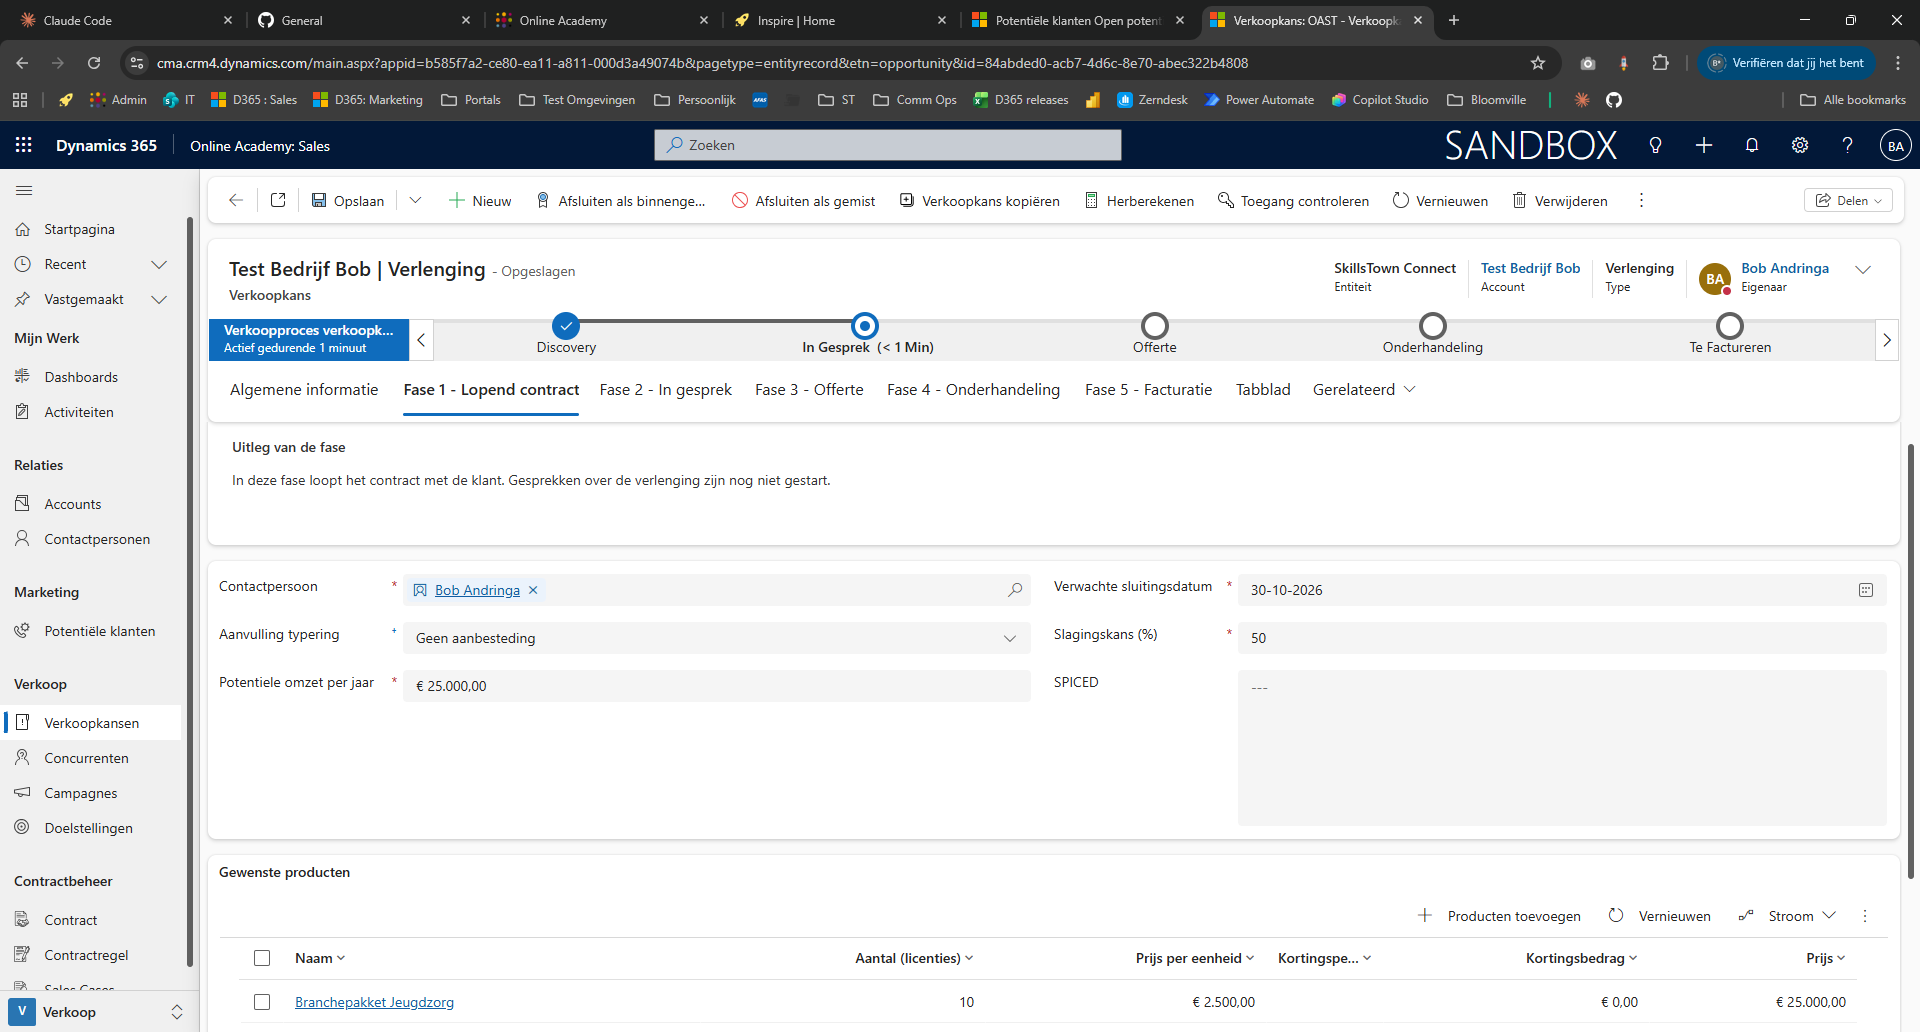
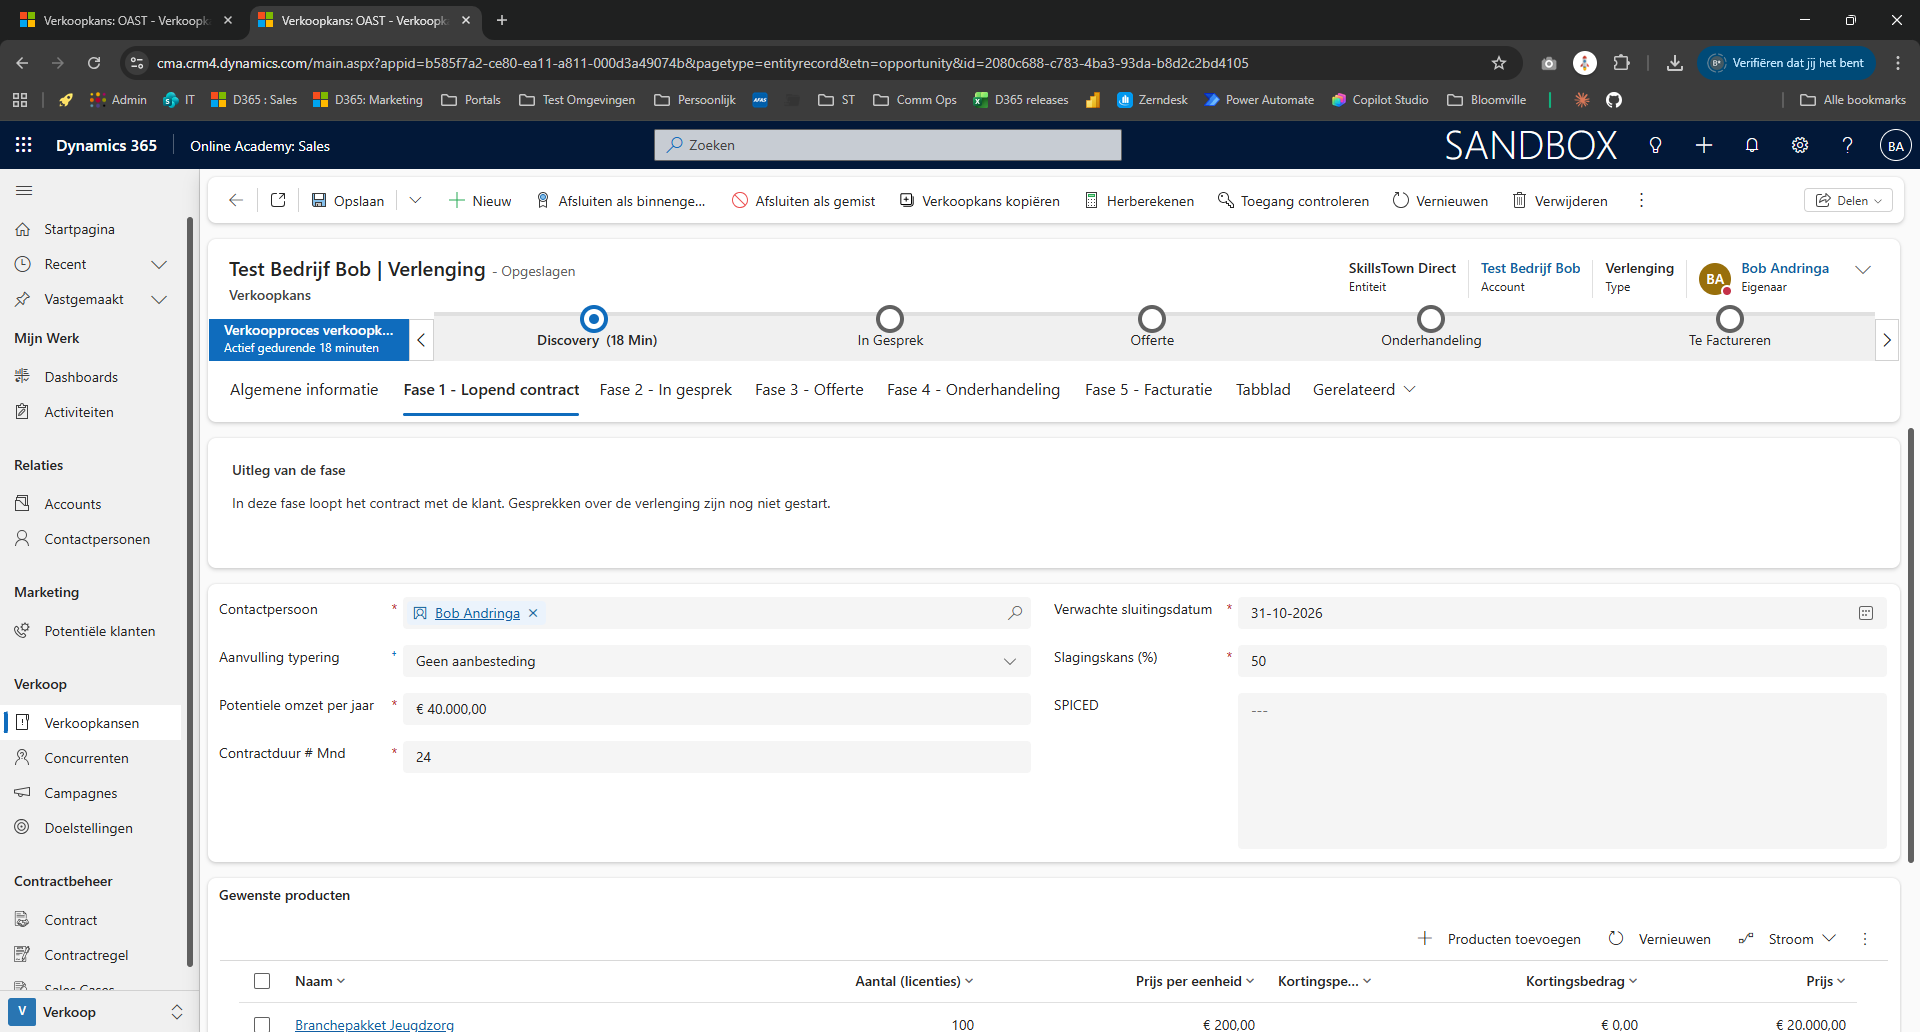
Add Bron row and new Verlenging Fase 1 screenshots
- Copy the Bron row from the old screenshot into Algemene informatie
  (Nieuwe klant) until the test environment shows it
- Verlenging Fase 1 gets new screenshots with Contractduur # Mnd, split
  into two screens like Nieuwe klant
- Markers on the product screens run top to bottom

Claude-Session: https://claude.ai/code/session_01ReoF9wBvZ5fZsmBWKEijTV

diff --git a/site/index.html b/site/index.html
@@ -199,7 +199,7 @@ const SERIES = {
       "title": "Nieuw veld Toelichting Broncampagne",
       "box": [
        8,
-       426,
+       474,
        562,
        36
       ],
@@ -211,7 +211,7 @@ const SERIES = {
       "title": "Aantal werknemers staat hier",
       "box": [
        8,
-       522,
+       570,
        562,
        36
       ],
@@ -223,7 +223,7 @@ const SERIES = {
       "title": "Onderwerp wordt automatisch gevuld",
       "box": [
        8,
-       570,
+       618,
        562,
        36
       ],
@@ -235,7 +235,7 @@ const SERIES = {
       "title": "Verwachte start datum contract",
       "box": [
        8,
-       640,
+       688,
        562,
        52
       ],
@@ -316,18 +316,6 @@ const SERIES = {
     "neu": "img/nieuw/nk-04-fase-1-deel-2.png",
     "changes": [
      {
-      "title": "Sectie Gewenste producten",
-      "box": [
-       8,
-       490,
-       1692,
-       340
-      ],
-      "wat": "Onderaan Fase 1 zie je de gekozen producten met aantal, prijs, korting en totaalprijs.",
-      "waarom": "De producten zijn de basis voor de definitieve kosten in Fase 4.",
-      "jij": "Houd de lijst actueel als de wensen van de klant veranderen."
-     },
-     {
       "title": "Potentiële omzet per jaar blijft handmatig",
       "box": [
        8,
@@ -338,6 +326,18 @@ const SERIES = {
       "wat": "Dit veld wordt niet uit de producten berekend.",
       "waarom": "Dit zal nog even een handmatig veld blijven.",
       "jij": "Vul de potentiële omzet per jaar zelf in, zoals je gewend was."
+     },
+     {
+      "title": "Sectie Gewenste producten",
+      "box": [
+       8,
+       490,
+       1692,
+       340
+      ],
+      "wat": "Onderaan Fase 1 zie je de gekozen producten met aantal, prijs, korting en totaalprijs.",
+      "waarom": "De producten zijn de basis voor de definitieve kosten in Fase 4.",
+      "jij": "Houd de lijst actueel als de wensen van de klant veranderen."
      }
     ]
    },
@@ -669,19 +669,51 @@ const SERIES = {
       "title": "Slagingskans in Fase 1",
       "box": [
        846,
-       455,
+       474,
        844,
-       36
+       40
       ],
       "wat": "Slagingskans (%) staat nu in Fase 1 en is verplicht. Eerder stond het in Fase 2.",
       "waarom": "Zo staat elke verkoopkans vanaf het begin met een kans in de pipeline. Dit getal is belangrijk voor onze forecasting.",
       "jij": "Schat de slagingskans al in de eerste fase in. Je moet dus eerder met een waarde komen."
      },
      {
+      "title": "Contractduur # Mnd is verplicht",
+      "box": [
+       8,
+       570,
+       824,
+       40
+      ],
+      "wat": "In Fase 1 vul je nu al de contractduur in maanden in. Dit veld is verplicht.",
+      "waarom": "",
+      "jij": "Geef al in Fase 1 aan hoe lang het contract naar verwachting loopt."
+     },
+     {
+      "title": "Gewenste oplossing is weg",
+      "box": [
+       8,
+       712,
+       1692,
+       44
+      ],
+      "wat": "De velden Gewenste oplossing en Gewenste oplossing overig zijn verdwenen. Daarvoor in de plaats komen producten.",
+      "waarom": "De producten zijn de basis voor de definitieve kosten in Fase 4. Die worden daardoor automatisch berekend.",
+      "jij": "Je kunt nu zelf aangeven om welke producten het gaat en hoeveel licenties."
+     }
+    ]
+   },
+   {
+    "title": "Fase 1 – Gewenste producten",
+    "sub": "Onderste deel van het tabblad, na het toevoegen van producten.",
+    "old": "img/oud/vl-02-fase-1.png",
+    "neu": "img/nieuw/vl-01-fase-1-deel-2.png",
+    "changes": [
+     {
       "title": "Potentiële omzet per jaar blijft handmatig",
       "box": [
        8,
-       500,
+       300,
        824,
        40
       ],
@@ -690,21 +722,14 @@ const SERIES = {
       "jij": "Vul de potentiële omzet per jaar zelf in, zoals je gewend was."
      },
      {
-      "title": "Contractduur # Mnd is verplicht",
-      "box": null,
-      "wat": "In Fase 1 vul je nu al de contractduur in maanden in. Dit veld is verplicht.",
-      "waarom": "",
-      "jij": "Geef al in Fase 1 aan hoe lang het contract naar verwachting loopt."
-     },
-     {
       "title": "Sectie Gewenste producten",
       "box": [
        8,
-       688,
+       488,
        1692,
-       172
+       342
       ],
-      "wat": "De velden Gewenste oplossing en Gewenste oplossing overig zijn verdwenen. Onderaan Fase 1 zie je nu de gekozen producten met aantal, prijs, korting en totaalprijs.",
+      "wat": "Onderaan Fase 1 zie je de gekozen producten met aantal, prijs, korting en totaalprijs.",
       "waarom": "De producten zijn de basis voor de definitieve kosten in Fase 4.",
       "jij": "Houd de lijst actueel als de wensen van de klant veranderen."
      }

diff --git a/tools/prepare_images.py b/tools/prepare_images.py
@@ -6,6 +6,8 @@ and writes cropped images (form area only, 1707 x 860) to site/img/.
 Edits on the new screenshots:
   - tab "Tabblad" is renamed to "Bestanden" (glyphs copied from an old screenshot)
   - the "Prognosecategorie" row is removed from Algemene informatie (test environment only)
+  - the "Bron" row, not yet in the test environment, is copied from the old screenshot into
+    Algemene informatie (Nieuwe klant), above "Toelichting Broncampagne"
 
 Run from the repository root:  python3 tools/prepare_images.py
 """
@@ -114,6 +116,16 @@ def remove_rows(img, y0, y1, x0=WIN_X, x1=WIN_X + 586):
     return img
 
 
+def insert_rows(img, y, patch, x0=WIN_X):
+    """Insert a band (e.g. a form row) at y in the left form column; what is below moves down."""
+    img = img.copy()
+    h = patch.height
+    below = img.crop((x0, y, x0 + patch.width, img.height - h))
+    img.paste(below, (x0, y + h))
+    img.paste(patch, (x0, y))
+    return img
+
+
 def crop_window(img, x=WIN_X, y=WIN_Y):
     return img.crop((x, y, x + W, y + H))
 
@@ -162,6 +174,10 @@ def main():
         img, renamed = rename_tabblad(img)
         if rel in prognose:
             img = remove_rows(img, *prognose[rel])
+        if rel == "nieuwe-klant/01-algemene-informatie.png":
+            # Band 420-468 of the cropped old screenshot holds the Bron row
+            bron = Image.open(OUT / "oud" / "nk-01-algemene-informatie.png").convert("RGB").crop((0, 420, 586, 468))
+            img = insert_rows(img, WIN_Y + 420, bron)
         img = crop_window(img, x=special_x.get(rel, WIN_X))
         name = f"{prefix[f.parent.name]}-{f.name}"
         img.save(OUT / "nieuw" / name, optimize=True)
